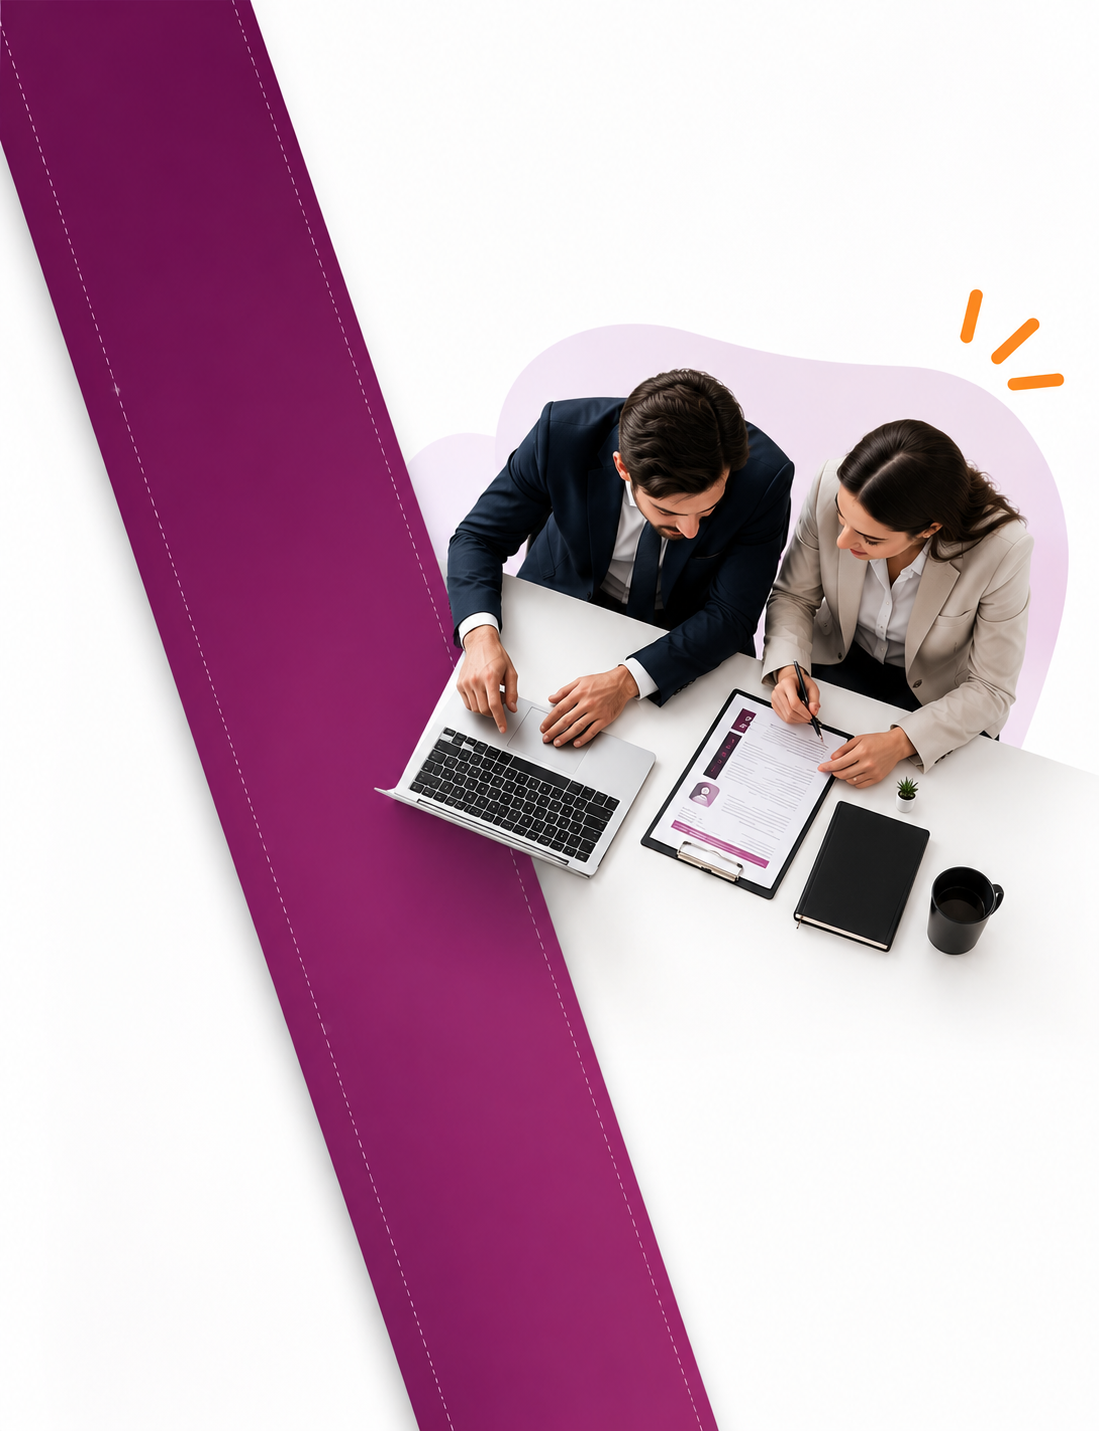
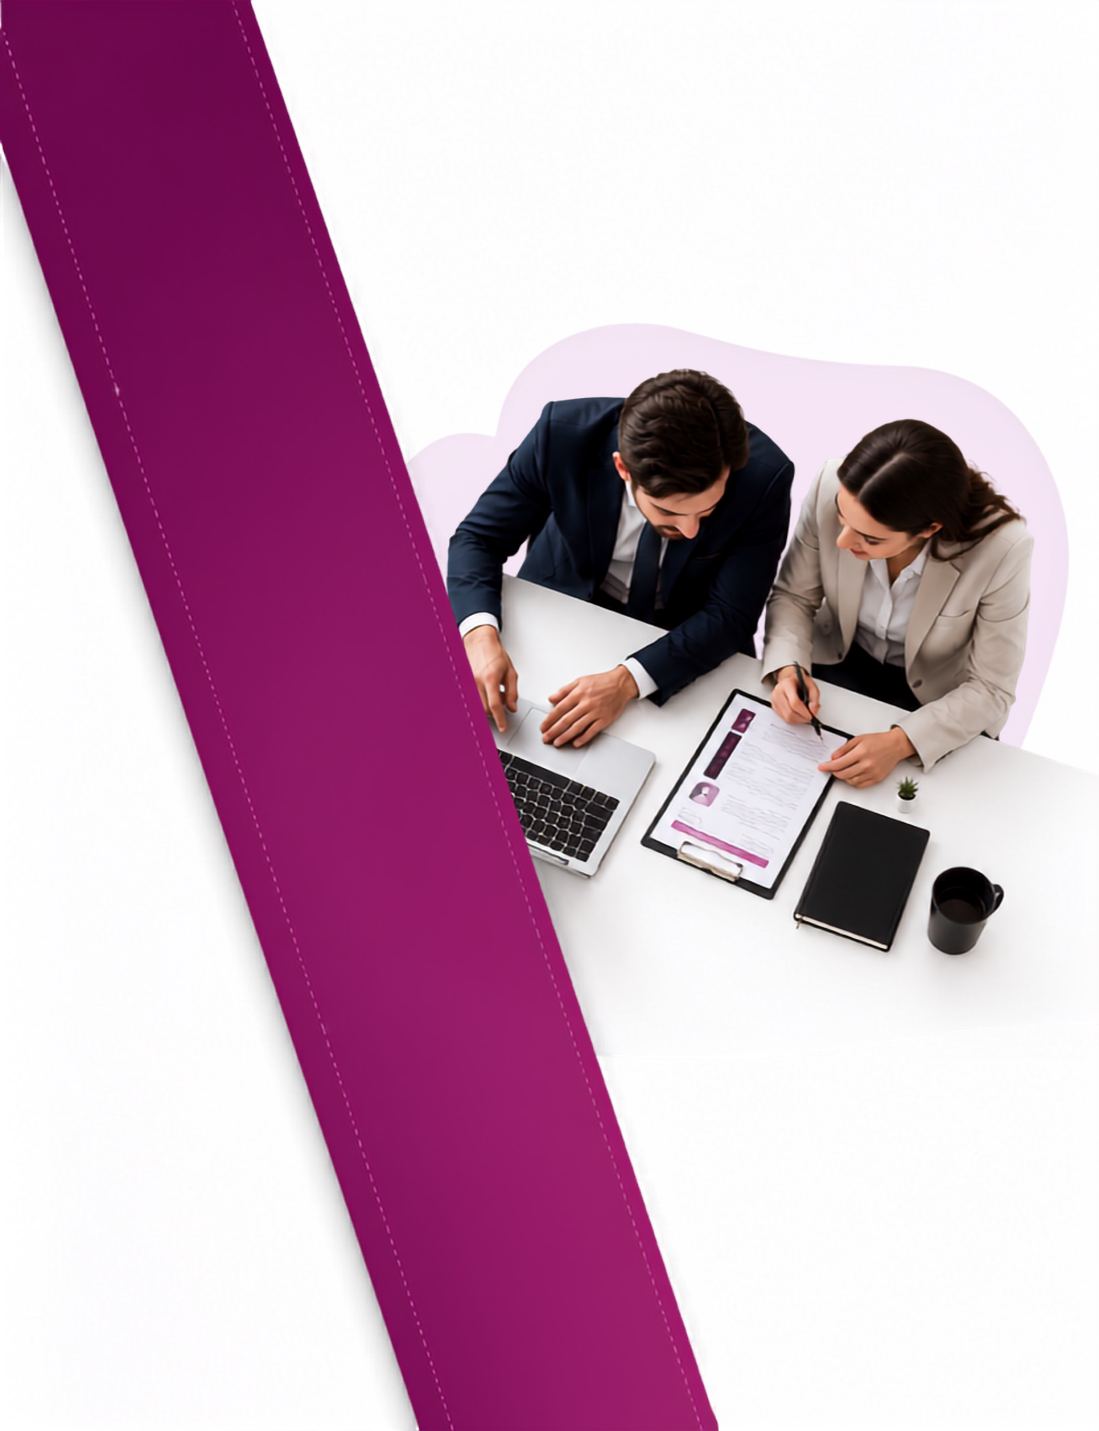
add images

diff --git a/src/sections/jobs/CandidateSections.tsx b/src/sections/jobs/CandidateSections.tsx
@@ -8,10 +8,10 @@ import { ArrowRight, Search, UserCheck, Briefcase, Trophy, Globe, Zap, Heart, Sh
 import api from '@/services/api';
 
 // ── WhyWorkWithChalky ────────────────────────────────────────────────────────
-import imgSpecializedNetwork from '@/assets/Find Jobs/Specialized Career Network.png';
-import imgEndToEnd from '@/assets/Find Jobs/ENd to end.png';
-import imgDedicatedConsultant from '@/assets/Find Jobs/Dedicated Consut.png';
-import imgGlobalMilestone from '@/assets/Find Jobs/Global Milestone.png';
+import imgSpecializedNetwork from '@/assets/Find-Jobs/1.png';
+import imgEndToEnd from '@/assets/Find-Jobs/2.png';
+import imgDedicatedConsultant from '@/assets/Find-Jobs/3.png';
+import imgGlobalMilestone from '@/assets/Find-Jobs/4.png';
 
 const CANDIDATE_REASONS = [
   { 
@@ -62,31 +62,112 @@ export function WhyWorkWithChalky() {
               whileInView={{ opacity: 1, y: 0 }}
               viewport={{ once: true }}
               transition={{ delay: i * 0.1 }}
-              className="group relative overflow-hidden rounded-[2.5rem] bg-white h-[380px] cursor-pointer shadow-sm hover:shadow-2xl transition-all duration-500"
+              className="group relative overflow-hidden rounded-[2.5rem] bg-white h-[480px] cursor-pointer border border-[#7A1F5C]/25 shadow-sm hover:shadow-2xl hover:-translate-y-1.5 transition-all duration-500 flex flex-col"
             >
-              {/* Image Area - Top */}
-              <div className="absolute top-0 left-0 w-full h-[60%] overflow-hidden">
-                <Image 
-                  src={reason.image} 
-                  alt={reason.title} 
-                  fill 
-                  unoptimized
-                  className="object-cover transition-transform duration-700 group-hover:scale-110" 
-                 sizes="(max-width: 768px) 100vw, (max-width: 1200px) 50vw, 33vw" />
+              {/* Visual Area */}
+              <div className="relative w-full h-[390px] overflow-hidden bg-[#FBFBFB]">
+                {i === 0 && (
+                  <>
+                    {/* Background vertical pink shape behind image (matching Card 4 exactly) */}
+                    <div className="absolute top-10 bottom-10 right-8 w-[65px] bg-[#C955A2]/35 rounded-[20px] z-0" />
+                    
+                    {/* Text content box (Deep Purple) */}
+                    <div className="absolute top-10 bottom-10 left-6 right-[42%] bg-[#7A1F5C] text-white p-5 rounded-[24px] z-10 shadow-lg flex flex-col justify-center">
+                      <h4 className="text-xs font-extrabold mb-2 leading-snug">{reason.title}</h4>
+                      <p className="text-[9px] text-white/85 leading-relaxed font-medium">{reason.desc}</p>
+                    </div>
+
+                    {/* Candidate Image (Larger) */}
+                    <div className="absolute bottom-0 right-0 w-[60%] h-[90%] z-20">
+                      <Image 
+                        src={reason.image} 
+                        alt={reason.title} 
+                        fill 
+                        unoptimized
+                        className="object-contain object-bottom transition-transform duration-500 group-hover:scale-105" 
+                      />
+                    </div>
+                  </>
+                )}
+
+                {i === 1 && (
+                  <>
+                    {/* Background pink shape tilted behind image */}
+                    <div className="absolute top-12 left-6 w-20 h-32 bg-[#C955A2]/25 rounded-[24px] rotate-12 z-0" />
+                    
+                    {/* Text content box (Deep Purple) - Right Aligned */}
+                    <div className="absolute top-10 bottom-10 right-6 left-[42%] bg-[#7A1F5C] text-white p-5 rounded-[24px] z-10 shadow-lg flex flex-col justify-center">
+                      <h4 className="text-xs font-extrabold mb-2 leading-snug">{reason.title}</h4>
+                      <p className="text-[9px] text-white/85 leading-relaxed font-medium">{reason.desc}</p>
+                    </div>
+
+                    {/* Candidate Image (Larger) */}
+                    <div className="absolute bottom-0 left-0 w-[60%] h-[90%] z-20">
+                      <Image 
+                        src={reason.image} 
+                        alt={reason.title} 
+                        fill 
+                        unoptimized
+                        className="object-contain object-bottom transition-transform duration-500 group-hover:scale-105" 
+                      />
+                    </div>
+                  </>
+                )}
+
+                {i === 2 && (
+                  <>
+                    {/* Background pink shape horizontal behind image */}
+                    <div className="absolute top-16 right-6 w-32 h-20 bg-[#C955A2]/25 rounded-[20px] rotate-6 z-0" />
+                    
+                    {/* Text content box (Deep Purple) */}
+                    <div className="absolute top-10 bottom-10 left-6 right-[42%] bg-[#7A1F5C] text-white p-5 rounded-[24px] z-10 shadow-lg flex flex-col justify-center">
+                      <h4 className="text-xs font-extrabold mb-2 leading-snug">{reason.title}</h4>
+                      <p className="text-[9px] text-white/85 leading-relaxed font-medium">{reason.desc}</p>
+                    </div>
+
+                    {/* Candidate Image (Larger) */}
+                    <div className="absolute bottom-0 right-0 w-[60%] h-[90%] z-20">
+                      <Image 
+                        src={reason.image} 
+                        alt={reason.title} 
+                        fill 
+                        unoptimized
+                        className="object-contain object-bottom transition-transform duration-500 group-hover:scale-105" 
+                      />
+                    </div>
+                  </>
+                )}
+
+                {i === 3 && (
+                  <>
+                    {/* Background vertical pink shape behind image */}
+                    <div className="absolute top-10 bottom-10 right-8 w-[65px] bg-[#C955A2]/35 rounded-[20px] z-0" />
+                    
+                    {/* Text content box (Deep Purple) */}
+                    <div className="absolute top-10 bottom-10 left-6 right-[42%] bg-[#7A1F5C] text-white p-5 rounded-[24px] z-10 shadow-lg flex flex-col justify-center">
+                      <h4 className="text-xs font-extrabold mb-2 leading-snug">{reason.title}</h4>
+                      <p className="text-[9px] text-white/85 leading-relaxed font-medium">{reason.desc}</p>
+                    </div>
+
+                    {/* Candidate Image (Larger) */}
+                    <div className="absolute bottom-0 right-0 w-[60%] h-[90%] z-20">
+                      <Image 
+                        src={reason.image} 
+                        alt={reason.title} 
+                        fill 
+                        unoptimized
+                        className="object-contain object-bottom transition-transform duration-500 group-hover:scale-105" 
+                      />
+                    </div>
+                  </>
+                )}
               </div>
 
-              {/* Content Area - Bottom (default), Full height (hover) */}
-              <div className="absolute bottom-0 left-0 w-full h-[40%] bg-white p-8 flex flex-col transition-all duration-500 ease-[cubic-bezier(0.4,0,0.2,1)] group-hover:h-full z-10">
-                <span className="text-[10px] font-bold text-[#7A1F5C] uppercase tracking-widest mb-3">{reason.tag}</span>
-                <h4 className="text-xl font-bold text-[#1A1A1A] leading-tight mb-4 group-hover:text-[#7A1F5C] transition-colors">{reason.title}</h4>
-                
-                {/* Hidden content that fades in on hover */}
-                <div className="opacity-0 group-hover:opacity-100 transition-all duration-500 delay-100 flex-grow pt-4 flex flex-col">
-                   <p className="text-[#8A8A8A] text-sm leading-relaxed mb-6">{reason.desc}</p>
-                   <span className="inline-flex items-center gap-2 text-[#7A1F5C] font-bold text-xs mt-auto group/link">
-                      Learn More <ArrowRight size={16} className="group-hover/link:translate-x-1 transition-transform" />
-                   </span>
-                </div>
+              {/* Footer Label */}
+              <div className="h-[90px] bg-white border-t border-[#7A1F5C]/10 flex items-center justify-center">
+                <span className="text-sm font-extrabold text-[#7A1F5C] uppercase tracking-widest">
+                  {reason.tag}
+                </span>
               </div>
             </motion.div>
           ))}

diff --git a/src/sections/about/CompanyStory.tsx b/src/sections/about/CompanyStory.tsx
@@ -81,46 +81,35 @@ export default function CompanyStory() {
             whileInView={{ opacity: 1, x: 0 }} 
             viewport={{ once: true, margin: "100px" }} 
             transition={{ duration: 0.4 }}
-            className="relative h-full flex items-center"
+            className="relative h-full flex items-center justify-center py-10 z-10"
           >
-             <div className="grid grid-cols-2 gap-4 w-full">
-                {/* Column 1 */}
-                <div className="flex flex-col gap-4 mt-8">
-                  {[
-                    { src: WhoWeAre1, alt: 'Team meeting', label: 'Collaborative Strategy', link: '/services' },
-                    { src: WhoWeAre2, alt: 'Business discussion', label: 'Consultative Approach', link: '/services/executive-search' },
-                    { src: WhoWeAre3, alt: 'Project planning', label: 'Visionary Planning', link: '/industries' },
-                    { src: WhoWeAre4, alt: 'Global team', label: 'Global Workforce', link: '/services/permanent-hiring' }
-                  ].map((img, idx) => (
-                    <Link key={idx} href={img.link} className="block">
-                      <motion.div whileHover={{ scale: 1.02 }} className={`relative rounded-2xl overflow-hidden shadow-lg group cursor-pointer ${idx % 2 === 0 ? 'h-48 md:h-56' : 'h-56 md:h-64'}`}>
-                        <Image src={img.src} alt={img.alt} fill className="object-cover transition-transform duration-700 group-hover:scale-110" sizes="(max-width: 768px) 100vw, (max-width: 1200px) 50vw, 33vw" />
-                        <div className="absolute inset-x-0 bottom-0 h-1/2 bg-gradient-to-t from-[#1A0A14]/90 to-transparent p-5 translate-y-full group-hover:translate-y-0 transition-transform duration-500 ease-out flex flex-col justify-end">
-                          <p className="text-white text-sm font-bold tracking-wide flex items-center gap-2">{img.label} <ArrowUpRight className="w-4 h-4 text-[#C2185B]" /></p>
-                        </div>
-                      </motion.div>
-                    </Link>
-                  ))}
-                </div>
-                {/* Column 2 */}
-                <div className="flex flex-col gap-4 mb-8">
-                  {[
-                    { src: WhoWeAre5, alt: 'Tech workspace', label: 'Agile Delivery', link: '/services/contract-staffing' },
-                    { src: WhoWeAre6, alt: 'Analytics', label: 'Data-Driven Insights', link: '/industries/finance' },
-                    { src: WhoWeAre7, alt: 'Tech talent', label: 'Specialist Talent', link: '/industries/it-technology' },
-                    { src: WhoWeAre8, alt: 'Strategy', label: 'Market Intelligence', link: '/services/managed-services' }
-                  ].map((img, idx) => (
-                    <Link key={idx} href={img.link} className="block">
-                      <motion.div whileHover={{ scale: 1.02 }} className={`relative rounded-2xl overflow-hidden shadow-lg group cursor-pointer ${idx % 2 === 0 ? 'h-56 md:h-64' : 'h-48 md:h-56'}`}>
-                        <Image src={img.src} alt={img.alt} fill className="object-cover transition-transform duration-700 group-hover:scale-110" sizes="(max-width: 768px) 100vw, (max-width: 1200px) 50vw, 33vw" />
-                        <div className="absolute inset-x-0 bottom-0 h-1/2 bg-gradient-to-t from-[#1A0A14]/90 to-transparent p-5 translate-y-full group-hover:translate-y-0 transition-transform duration-500 ease-out flex flex-col justify-end">
-                          <p className="text-white text-sm font-bold tracking-wide flex items-center gap-2">{img.label} <ArrowUpRight className="w-4 h-4 text-[#C2185B]" /></p>
-                        </div>
-                      </motion.div>
-                    </Link>
-                  ))}
-                </div>
-             </div>
+            <div className="relative w-full aspect-[4/5] max-w-[500px] mx-auto lg:max-w-none">
+              {[
+                { src: WhoWeAre1, className: "absolute top-[5%] right-[22%] w-[36%] aspect-square z-10" },
+                { src: WhoWeAre2, className: "absolute top-[20%] left-[0%] w-[32%] aspect-square z-10" },
+                { src: WhoWeAre3, className: "absolute top-[32%] left-[28%] w-[42%] aspect-square z-20" },
+                { src: WhoWeAre4, className: "absolute top-[28%] right-[2%] w-[30%] aspect-square z-10" },
+                { src: WhoWeAre5, className: "absolute bottom-[18%] left-[5%] w-[34%] aspect-square z-10" },
+                { src: WhoWeAre6, className: "absolute bottom-[5%] left-[32%] w-[38%] aspect-square z-20" },
+                { src: WhoWeAre7, className: "absolute bottom-[15%] right-[10%] w-[36%] aspect-square z-10" },
+                { src: WhoWeAre8, className: "absolute top-[0%] left-[25%] w-[25%] aspect-square z-0 opacity-40 blur-[0.5px]" }
+              ].map((img, idx) => (
+                <motion.div 
+                  key={idx}
+                  className={`${img.className} rotate-45 overflow-hidden rounded-[20px] md:rounded-[28px] border-[3px] border-white shadow-lg hover:shadow-2xl hover:scale-105 hover:z-30 transition-all duration-500 ease-out group cursor-pointer`}
+                >
+                  <div className="relative w-full h-full -rotate-45 scale-[1.45] transition-transform duration-700 group-hover:scale-[1.55]">
+                    <Image 
+                      src={img.src} 
+                      alt="Chalky Team Workspace" 
+                      fill 
+                      className="object-cover"
+                      sizes="(max-width: 768px) 50vw, 30vw"
+                    />
+                  </div>
+                </motion.div>
+              ))}
+            </div>
           </motion.div>
 
         </div>

diff --git a/src/constants/industriesData.ts b/src/constants/industriesData.ts
@@ -35,14 +35,14 @@ export interface IndustryDetail {
   }[];
 }
 
-import itTechImg from '@/assets/Industries inside hero section/IT and Technology.png';
-import telecomImg from '@/assets/Industries inside hero section/f895376b-bf17-41cd-9a2a-402beb908709 1.png';
-import engineeringImg from '@/assets/Industries inside hero section/Engineering and infrastructure.png';
-import mediaImg from '@/assets/Industries inside hero section/Media and digital.png';
-import bankingImg from '@/assets/Industries inside hero section/Banking and Finnace.png';
-import healthcareImg from '@/assets/Industries inside hero section/Heathcare.png';
-import retailImg from '@/assets/Industries inside hero section/Retail -E-commerce.png';
-import manufacturingImg from '@/assets/Industries inside hero section/Manufacturing.png';
+import itTechImg from '@/assets/Industries-heros/IT and Technology.png';
+import telecomImg from '@/assets/Industries-heros/Telecom.png';
+import engineeringImg from '@/assets/Industries-heros/Engineering and infrastructure.png';
+import mediaImg from '@/assets/Industries-heros/Media and digital.png';
+import bankingImg from '@/assets/Industries-heros/Banking and Finnace.png';
+import healthcareImg from '@/assets/Industries-heros/Heathcare.png';
+import retailImg from '@/assets/Industries-heros/Retail -E-commerce.png';
+import manufacturingImg from '@/assets/Industries-heros/Manufacturing.png';
 
 export const INDUSTRIES_DETAILED: IndustryDetail[] = [
   {

diff --git a/src/constants/servicesData.ts b/src/constants/servicesData.ts
@@ -1,11 +1,11 @@
-import itStaffingImg from '@/assets/Services inside all heros section/3d3f0587-cd33-44ed-bdd7-e37fb1cccd62 1.png';
-import executiveSearchImg from '@/assets/Services inside all heros section/4c171da4-d5c1-464a-871d-df7055def059 1.png';
-import contractStaffingImg from '@/assets/Services inside all heros section/4569ada5-daab-4204-bf09-b03de79be73b 1.png';
-import permanentHiringImg from '@/assets/Services inside all heros section/a10ee006-617b-4bbf-b564-7aeebf1c463c 1.png';
-import temporaryRecruitmentImg from '@/assets/Services inside all heros section/6e31c581-025d-4eca-b588-7c134d893930 1.png';
-import onSiteRecruitmentImg from '@/assets/Services inside all heros section/b1004b03-ed78-4bef-936b-c7a5cf954b9b 1.png';
-import managedServicesImg from '@/assets/Services inside all heros section/f299ccc7-09a1-4c44-b178-5542b4f78359 1.png';
-import remoteHiringImg from '@/assets/Services inside all heros section/0fa0dad4-4de9-407f-8989-b6516a5d8018 1.png';
+import itStaffingImg from '@/assets/Services-heros/1.jpg';
+import executiveSearchImg from '@/assets/Services-heros/2.jpg';
+import contractStaffingImg from '@/assets/Services-heros/3.jpg';
+import permanentHiringImg from '@/assets/Services-heros/4.jpg';
+import temporaryRecruitmentImg from '@/assets/Services-heros/5.jpg';
+import onSiteRecruitmentImg from '@/assets/Services-heros/6.jpg';
+import managedServicesImg from '@/assets/Services-heros/7.jpg';
+import remoteHiringImg from '@/assets/Services-heros/8.jpg';
 
 export interface ServiceDetail {
   slug: string;

diff --git a/src/sections/service-detail/ServiceBenefits.tsx b/src/sections/service-detail/ServiceBenefits.tsx
@@ -9,12 +9,12 @@ interface Props {
   serviceLabel?: string;
 }
 
-import benefit1 from '@/assets/Services details page/Fast  Project Delivery.png';
-import benefit2 from '@/assets/Services details page/Reduced Hiring Risks.png';
-import benefit3 from '@/assets/Services details page/Scalabale Teams.png';
-import benefit4 from '@/assets/Services details page/Cost Efficiency.png';
-import benefit5 from '@/assets/Services details page/Compilance and sedcurity.png';
-import benefit6 from '@/assets/Services details page/office-workers-using-finance-graphs 1.png';
+import benefit1 from '@/assets/Services-details-page/7.png';
+import benefit2 from '@/assets/Services-details-page/8.png';
+import benefit3 from '@/assets/Services-details-page/9.png';
+import benefit4 from '@/assets/Services-details-page/4.png';
+import benefit5 from '@/assets/Services-details-page/5.png';
+import benefit6 from '@/assets/Services-details-page/6.png';
 
 const BENEFIT_IMAGES = [
   benefit1.src,

diff --git a/src/sections/service-detail/WhyChooseService.tsx b/src/sections/service-detail/WhyChooseService.tsx
@@ -17,12 +17,12 @@ interface Props {
   features: Feature[];
 }
 
-import feature1 from '@/assets/Services details page/48hr Talent Matching.png';
-import feature2 from '@/assets/Services details page/3layer Candidate Vetting.png';
-import feature3 from '@/assets/Services details page/Dedicated Account Manager.png';
-import feature4 from '@/assets/Services details page/Domain Dpecific Recruiters.png';
-import feature5 from '@/assets/Services details page/Zero Replacement Fee.png';
-import feature6 from '@/assets/Services details page/Quality Assurance.png';
+import feature1 from '@/assets/Services-details-page/4.png';
+import feature2 from '@/assets/Services-details-page/5.png';
+import feature3 from '@/assets/Services-details-page/6.png';
+import feature4 from '@/assets/Services-details-page/7.png';
+import feature5 from '@/assets/Services-details-page/8.png';
+import feature6 from '@/assets/Services-details-page/9.png';
 
 const DEFAULT_FEATURE_IMAGES = [
   feature1.src,

diff --git a/src/sections/service-detail/ServiceOverview.tsx b/src/sections/service-detail/ServiceOverview.tsx
@@ -8,9 +8,9 @@ import {
 import Image from 'next/image';
 import Link from 'next/link';
 
-import techAlignImg from '@/assets/Services details page/Technical Alignment.png';
-import stratPartImg from '@/assets/Services details page/Strategic Partnership.png';
-import qaImg from '@/assets/Services details page/Quality Assurance.png';
+import techAlignImg from '@/assets/Services-details-page/1.png';
+import stratPartImg from '@/assets/Services-details-page/2.png';
+import qaImg from '@/assets/Services-details-page/3.png';
 
 interface Props {
   title: string;

diff --git a/src/sections/home/IndustriesSection.tsx b/src/sections/home/IndustriesSection.tsx
@@ -8,13 +8,13 @@ import { ArrowUpRight, ArrowLeft, ArrowRight } from 'lucide-react';
 import { INDUSTRIES } from '@/constants';
 
 import TechImg from '@/assets/homepage/Industry/it-technology.png';
-import TelecomImg from '@/assets/homepage/Industry/telecommunications.png';
+import TelecomImg from '@/assets/homepage/Industry/telecommunication.png';
 import EngineeringImg from '@/assets/homepage/Industry/engineering-infrastructure.png';
 import MediaImg from '@/assets/homepage/Industry/media-digital-services.png';
 import FinanceImg from '@/assets/homepage/Industry/banking-finance.png';
 import HealthcareImg from '@/assets/homepage/Industry/healthcare-life-sciences.png';
 import RetailImg from '@/assets/homepage/Industry/retail-ecommerce.png';
-import ManufacturingImg from '@/assets/homepage/Industry/manufacturing.png';
+import ManufacturingImg from '@/assets/homepage/Industry/manufacturings.png';
 // Map industry slugs to clean, case-sensitive resolved images
 const imageMap: Record<string, any> = {
   'it-technology': TechImg,

diff --git a/src/app/industries/page.tsx b/src/app/industries/page.tsx
@@ -1,7 +1,7 @@
 import type { Metadata } from 'next';
 import PageHero from '@/components/PageHero';
 import CTASection from '@/components/CTASection';
-import heroImg from '@/assets/Industries/smiling-female-executive-standing-front-team 1.png';
+import heroImg from '@/assets/Industries/hero.png';
 import IndustriesOverview from '@/sections/industries/IndustriesOverview';
 import FeaturedIndustryExpertise from '@/sections/industries/FeaturedIndustryExpertise';
 import IndustryRecruitmentSolutions from '@/sections/industries/IndustryRecruitmentSolutions';

diff --git a/src/app/services/page.tsx b/src/app/services/page.tsx
@@ -16,7 +16,7 @@ import SearchMethodology from '@/sections/services/SearchMethodology';
 import SectionNavbar from '@/components/SectionNavbar';
 import HumanexShowcase from '@/components/HumanexShowcase';
 
-import heroImg from '@/assets/Services/Hero Section/ad7ac507-b934-4054-b5d3-892b1dc62bbb 1.png';
+import heroImg from '@/assets/Services/Hero/1.png';
 
 export const metadata: Metadata = {
   title: 'Specialist Recruitment & Workforce Solutions in the UK | Chalky Infotech',

diff --git a/src/sections/service-detail/IndustrySupport.tsx b/src/sections/service-detail/IndustrySupport.tsx
@@ -2,7 +2,7 @@
 
 import { motion } from 'framer-motion';
 import Image from 'next/image';
-import TrustImg from '@/assets/about/Why-Enterprises-Trust-Us/Why-Enterprises-Trust-Us.png';
+import TrustImg from '@/assets/Services-details-page/Globalsector.png';
 import { 
   Globe2, 
   MapPin, 

diff --git a/src/services/sendmail.ts b/src/services/sendmail.ts
@@ -10,7 +10,7 @@ export interface EmailData {
 }
 
 export const sendEmail = async (data: EmailData) => {
-  const toEmail = data.toOverride || process.env.NEXT_PUBLIC_FORM_SUBMIT_EMAIL || "[email redacted]";
+  const toEmail = data.toOverride || process.env.NEXT_PUBLIC_FORM_SUBMIT_EMAIL || "[email redacted]";
   const endpoint = `https://formsubmit.co/ajax/${toEmail}`;
 
   let body: BodyInit;